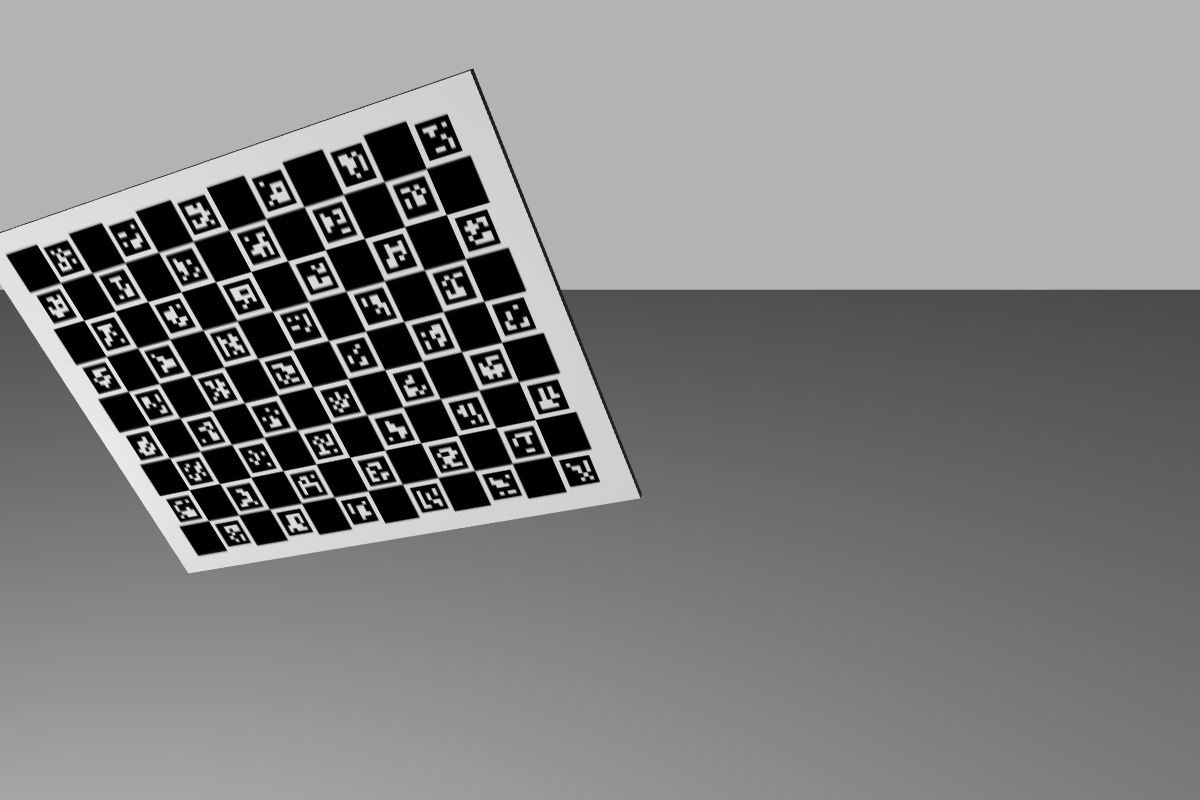
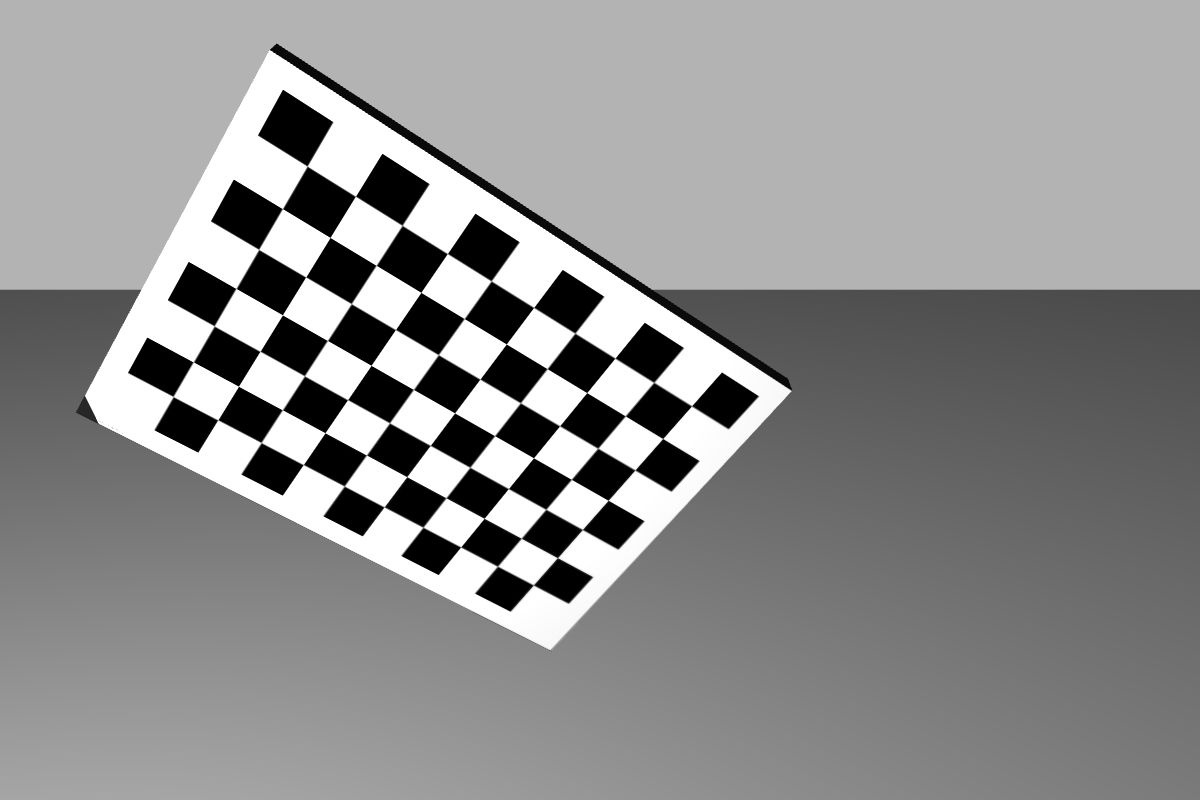
Close #654.

Changed region(s): [[0.0, 0.0625, 0.6783, 0.8125]]

diff --git a/atom_examples/rgb_rgb_system_chessboard/README.md b/atom_examples/rgb_rgb_system_chessboard/README.md
@@ -1,4 +1,4 @@
-# RGB_RGB_SYSTEM_CHESSBOARD
+<!-- # RGB RGB SYSTEM CHESSBOARD -->
 
 The **rgb_rgb_system_chessboard** is a robotic system meant to be use in simple tests and to serve as example for ATOM beginners. The novelty here is that the system uses a chessboard as calibration pattern, instead of the usual charuco board.
 
@@ -46,9 +46,9 @@ The calibration of any robotic system using **ATOM** may have several variants. 
 
 In this section, out goal is to carry out the simplest possible calibration pipeline for the **rgb_rgb_system_chessboard**.
 
-To calibrate, we will need a bagfile called [rgb_rgb_system_chessboard_example_bag.bag](https://drive.google.com/file/d/1Noo3eZh72m-xRobYZywdo1wtqg7e4wGa/view?usp=sharing), which contains a recording of the system's data when viewing a calibration pattern in several positions.
+To calibrate, we will need a bagfile called [train.bag](https://drive.google.com/file/d/1zucjVjg27plyvN-vWpAyo3-utY7Xro--/view?usp=sharing), which contains a recording of the system's data when viewing a calibration pattern in several positions.
 We produced the bagfile by bringing up the system and then recording a bagfile as described above.
-This is a small bagfile with 40 seconds / 60MB for demonstration purposes. Typically, calibration bagfiles are larger.
+This is a small bagfile with 50 seconds / 55MB for demonstration purposes. Typically, calibration bagfiles are larger.
 
 Download the bagfile and put it in **$ROS_BAGS/rgb_rgb_system_chessboard**.
 
@@ -67,8 +67,7 @@ Using ATOM conventions, we define name of the calibration package as **rgb_rgb_s
 
 ## Configuring the calibration
 
-
-This is the [config.yml](https://github.com/lardemua/atom/blob/miguelriemoliveira/issue629/atom_examples/rgb_rgb_system_chessboard/rgb_rgb_system_chessboard_calibration/calibration/config.yml) that we wrote to define the calibration. There are two sensors to be calibrated, named **rgb_left** and **rgb_right**. The pattern is a charuco marker.
+This is the [config.yml](https://github.com/lardemua/atom/blob/noetic-devel/atom_examples/rgb_rgb_system_chessboard/rgb_rgb_system_chessboard_calibration/calibration/config.yml) that we wrote to define the calibration. There are two sensors to be calibrated, named **rgb_left** and **rgb_right**. The pattern is a **chessboard marker**.
 The configuration file points to the bagfile mentioned above, and the _anchored_sensor_ is defined as the **rgb_left** sensor.
 
 To configure run:
@@ -86,9 +85,9 @@ To collect a dataset we run:
 
 And save a few collections.
 
-We will use as example the [rgb_rgb_system_chessboard_example_train_dataset](https://drive.google.com/file/d/1FobBsyxtI29hDt5NlKfAg7kFdsZxrcbG/view?usp=sharing), which contains 4 collections, as shown bellow.
+We will use as example the [train](https://drive.google.com/file/d/1FobBsyxtI29hDt5NlKfAg7kFdsZxrcbG/view?usp=sharing) dataset, which contains 6 collections, as shown bellow.
 
-Download and decompress the dataset to **$ATOM_DATASETS/rgb_rgb_system_chessboard/rgb_rgb_system_chessboard_example_train_dataset**.
+Download and decompress the dataset to **$ATOM_DATASETS/rgb_rgb_system_chessboard/train**.
 
 Collection |           rgb_left             |           rgb_right
 :----------------:|:-------------------------:|:-------------------------:
@@ -96,6 +95,8 @@ Collection |           rgb_left             |           rgb_right
 1 | ![](docs/rgb_left_001.jpg) |  ![](docs/rgb_right_001.jpg)
 2 | ![](docs/rgb_left_002.jpg) |  ![](docs/rgb_right_002.jpg)
 3 | ![](docs/rgb_left_003.jpg) |  ![](docs/rgb_right_003.jpg)
+4 | ![](docs/rgb_left_004.jpg) |  ![](docs/rgb_right_004.jpg)
+5 | ![](docs/rgb_left_005.jpg) |  ![](docs/rgb_right_005.jpg)
 
 
 ## Running the Calibration
@@ -104,37 +105,49 @@ To calibrate, first setup visualization with:
 
     roslaunch rgb_rgb_system_chessboard_calibration calibrate.launch
 
-Then carry out the actual calibration using:
+Then carry out the actual calibration using, using a **nig** to give some noise in the initial estimate:
 
-    rosrun atom_calibration calibrate -json $ATOM_DATASETS/rgb_rgb_system_chessboard/rgb_rgb_system_chessboard_example_dataset/dataset.json -v -rv
+    rosrun atom_calibration calibrate -json $ATOM_DATASETS/rgb_rgb_system_chessboard/train/dataset.json -v -rv -si -nig 0.1 0.1
 
-This will produce a table of residuals per iteration, like this:
+At the beginning of the calibration, the error table is this:
 
-![](docs/calibration_output.png)
+![](docs/output_start.png)
 
-This is the table presented once calibration is complete, which shows average reprojection errors of under 1 pixel. Sub-pixel accuracy is considered a good result for rgb camera calibration.
+where we can see that the errors for the **rgb_right** camera are very high due to the noise that was induced in the initial estimate. The initial state of the system is the following:
 
- Since this is a simulation, the original pose of the cameras is actually the one used by gazebo to produce the images. This means that the cameras are already positioned in the actual ground truth pose, which means that the calibration did not do much in this case. In a real system, the sensors will not be positioned at the ground truth pose. In fact, for real systems, we do not know where the ground truth is.
+![](docs/optimization_start.png)
 
-To make sure this ATOM is actually calibrating sensor poses in simulated experiments, we use the --noise_initial_guess (-nig) flag. This makes the calibrate script add a random variation to the initial pose of the cameras, to be sure they are not located at the ground truth:
+where it is possible to see that the **rgb_right** camera is below the support bar of the tripod, i.e., not in the correct position.
 
-    rosrun atom_calibration calibrate -json $ATOM_DATASETS/rgb_rgb_system_chessboard/rgb_rgb_system_chessboard_example_train_dataset/dataset.json -v -rv -nig 0.1 0.1
+After the optimization finishes we get:
 
-Which starts the calibration with these errors:
+![](docs/output_end.png)
 
-![](docs/calibration_output2.png)
+Here we can see that as a result of the calibration, the errors are much lower.
+This is also observed visually:
 
-which are quite high, because of the incorrect pose of the sensors,  and ends up converging into these figures:
+![](docs/optimization_end.png)
 
-![](docs/calibration_output3.png)
-
-Which again, have subpixel accuracy. This means the procedure achieved a successful calibration.
-
+since the position of the **rgb_right** is now on top of the support bar.
 
 ## Evaluation
 
 The evaluation be conducted with a second dataset which has not been seen during calibration. We call these the test datasets.
 
-Download the [rgb_rgb_system_chessboard_example_test_dataset](https://drive.google.com/file/d/1AvjQxncY1G0BbCZu_mgYIyefeFztsHpB/view?usp=sharing) and decompress to **$ATOM_DATASETS/rgb_rgb_system_chessboard/rgb_rgb_system_chessboard_example_test_dataset**.
+Download the [test](https://drive.google.com/file/d/1bvHr2iXsNS3snF9Af8gJ0mJJbPwUcTpJ/view?usp=sharing) dataset and decompress to **$ATOM_DATASETS/rgb_rgb_system_chessboard/test**.
+Then run:
 
-    roslaunch rgb_rgb_system_chessboard_calibration full_evaluation.launch test_json:=$ATOM_DATASETS/rgb_rgb_system_chessboard/rgb_rgb_system_chessboard_example_test_dataset/dataset.json train_json:=$ATOM_DATASETS/rgb_rgb_system_chessboard/rgb_rgb_system_chessboard_example_train_dataset/atom_calibration.json
+    roslaunch rgb_rgb_system_chessboard_calibration full_evaluation.launch test_json:=$ATOM_DATASETS/rgb_rgb_system_chessboard/test/dataset.json train_json:=$ATOM_DATASETS/rgb_rgb_system_chessboard/train/atom_calibration.json
+
+which will produce a table comparing the estimated pose versus the ground truth pose, which is only possible to compute because we are using a simulated system:
+
+![](docs/ground_truth_errors.png)
+
+which are very small, meaning the calibration is very accurate.
+
+It is also possible to see a table comparing the sensor to sensor projections. This is interesting since it is possible to have also with real data:
+
+
+![](docs/rgb_rgb_evaluation.png)
+
+Also in this evaluation, the errors are very low, which means the calibration is very accurate.
